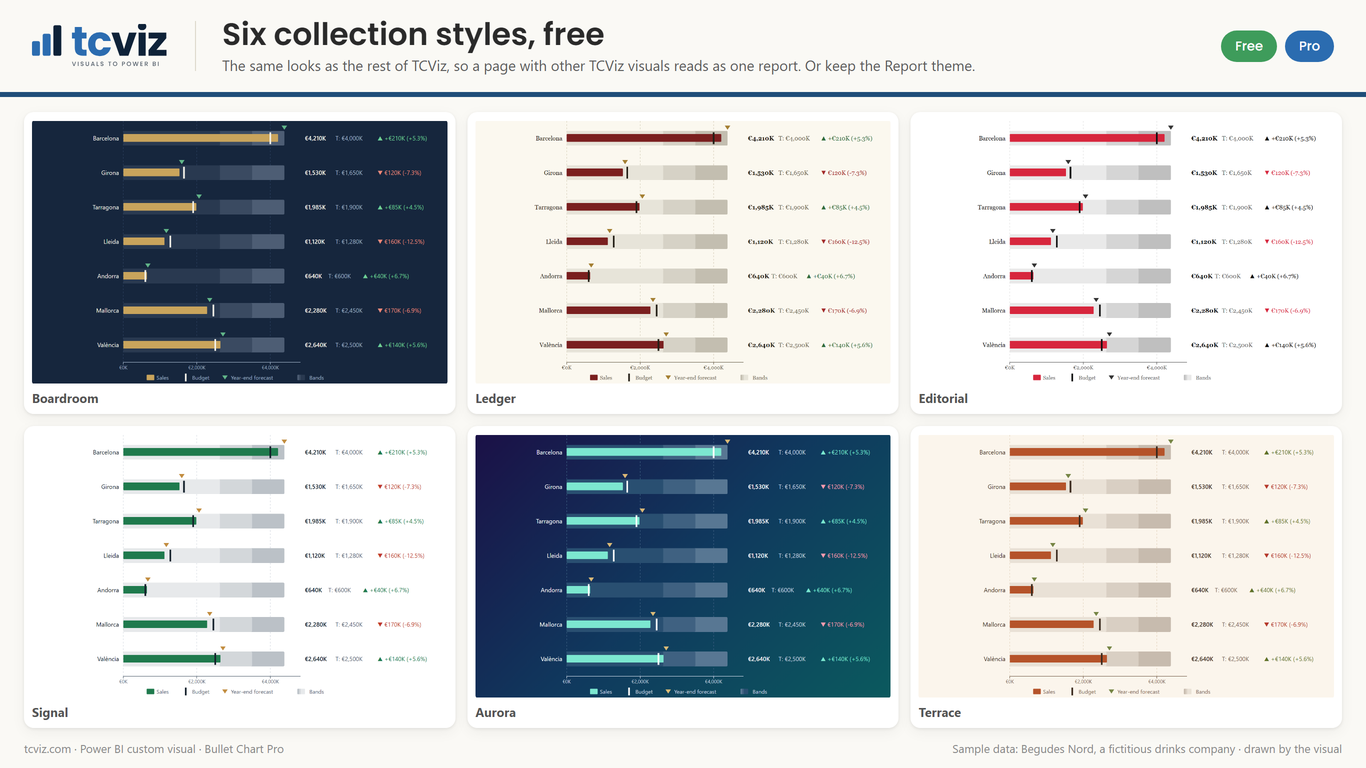
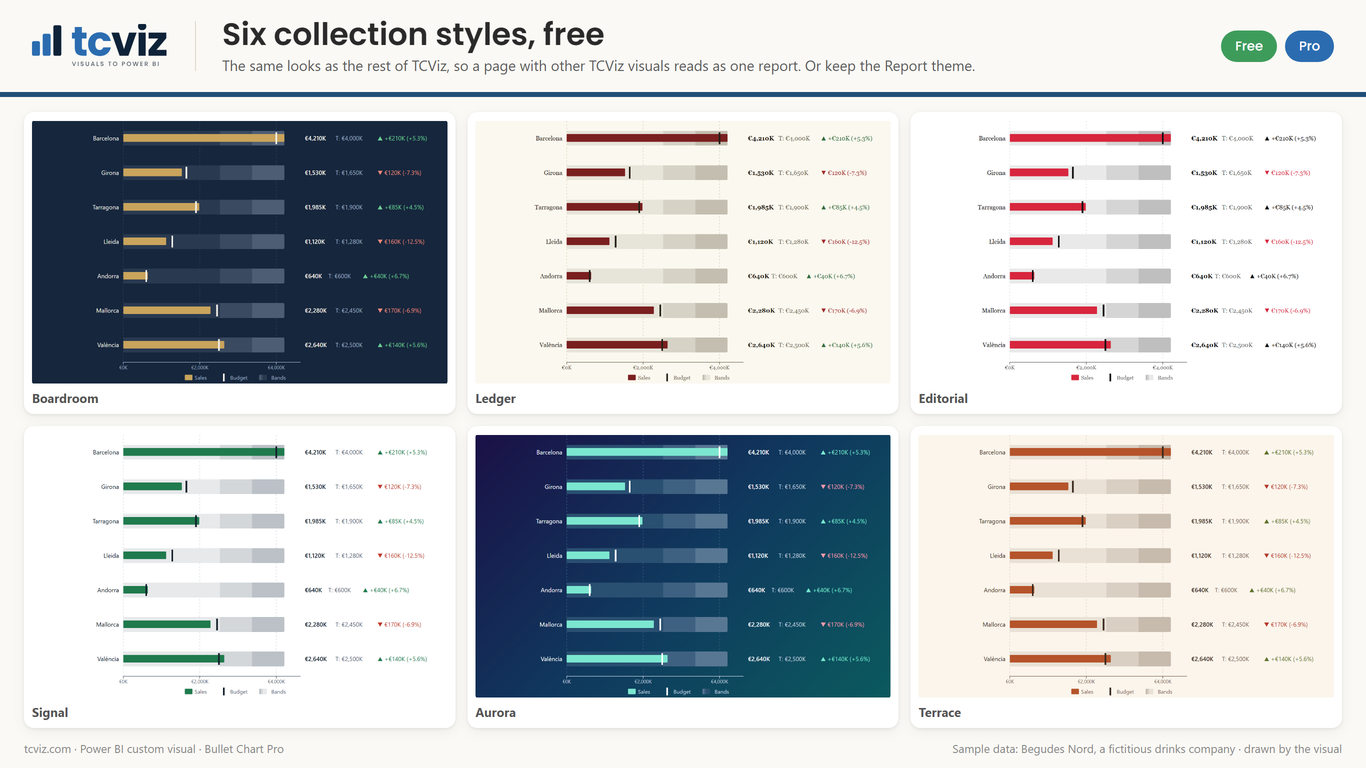
1.6: correcciones del auditor de documentación — fuera use-case.html (IBCS), captura de estilos sin la previsión Pro, orden real de lo que se oculta en mosaicos, símbolo de la previsión, privacidad con los enlaces de inicio

diff --git a/docs/support.html b/docs/support.html
@@ -137,7 +137,7 @@
       <tr><td>Small Multiples By <span class="badge">Pro</span></td><td>Grouping</td><td>One panel per value of this field (region, year…).</td></tr>
       <tr><td>Actual (Real)</td><td>Measure</td><td>The bar. Required: without it the start screen is shown.</td></tr>
       <tr><td>Target</td><td>Measure</td><td>Solid marker. Drives the variance label and its colour.</td></tr>
-      <tr><td>Forecast <span class="badge">Pro</span></td><td>Measure</td><td>Triangle marker for the expected end-of-period value.</td></tr>
+      <tr><td>Forecast <span class="badge">Pro</span></td><td>Measure</td><td>Marker for the expected end-of-period value: a triangle above the bar (a diamond in vertical orientation).</td></tr>
       <tr><td>Second target <span class="badge">Pro</span></td><td>Measure</td><td>Hollow marker next to the target: a stretch goal, last year or a commitment. Shown in the legend and in the tooltip with its own variance.</td></tr>
       <tr><td>Band 1 limit <span class="badge">Pro</span></td><td>Measure</td><td>Where band 1 (worst) ends, for this row.</td></tr>
       <tr><td>Band 2 limit <span class="badge">Pro</span></td><td>Measure</td><td>Where band 2 (mid) ends, for this row.</td></tr>
@@ -172,7 +172,7 @@
   <p>The guide appears over the chart only while you edit a report, once the visual has data, and
      not in tiles smaller than 360 × 220 px (there it would cover the whole chart).</p>
   <ol>
-    <li><strong>Your data</strong> — Category, Actual and Target, each with a tick once it is in its well. The list updates by itself as you drag fields.</li>
+    <li><strong>Your data</strong> — Category, Actual and Target; Target gets a tick once it is in its well. The list updates by itself as you drag fields.</li>
     <li><strong>Try Pro on your data</strong> — a <em>Try</em> button switches to vertical bars with one click. For bands from measures, the second target and small multiples, the guide tells you which well to use and ticks the item once it is filled. Without a licence they show under the watermark while you edit.</li>
     <li><strong>Pick a style</strong> — the seven collection styles, each with a thumbnail.</li>
   </ol>
@@ -476,8 +476,8 @@ Sales LY = CALCULATE ( [Sales], SAMEPERIODLASTYEAR ( 'Date'[Date] ) )</code></pr
   <details>
     <summary>Why is the variance not showing in a small tile?</summary>
     <p>When the values column is too narrow, the visual decides for the whole column what fits, in
-       this order: the variance amount is dropped first (the % stays), then the variance, then the
-       target value. Nothing is lost: <strong>hover over the bar and the tooltip shows the actual, the
+       this order: the target value is dropped first, then the variance amount (the % stays), then
+       the variance. Nothing is lost: <strong>hover over the bar and the tooltip shows the actual, the
        target and the variance in full</strong>. Widen the visual, reduce <em>Category column width %</em>,
        or set <em>Values panel width %</em>.</p>
   </details>
@@ -726,7 +726,7 @@ Band maximum = SUM ( T[Target] ) * 1.2</code></pre>
   </details>
 
   <details>
-    <summary>Does it work in Embedded, Publish to Web or Report Server?</summary>
+    <summary>Does it work in Embedded or Publish to Web?</summary>
     <p>The free features work everywhere. Where Power BI cannot check licences (Publish to Web,
        embedding, export) the free chart is drawn, without the Pro features and without a watermark.</p>
   </details>

diff --git a/docs/infographic.html b/docs/infographic.html
@@ -56,7 +56,7 @@ ol li:before{content:counter(n);position:absolute;left:0;top:0;width:19px;height
 <div class="card campos"><h2>Fields</h2><div class="rol"><span class="chip">Category</span><span class="d">Regions, products or teams: one bar each. Drilldown on hierarchies.</span></div><div class="rol"><span class="chip">Actual (Real)</span><span class="d">The measure you track; its dynamic format string row by row.</span></div><div class="rol"><span class="chip opc">Target</span><span class="d">Budget, plan or last year: the variance is calculated for you.</span></div><div class="rol"><span class="chip opc">More measures<i>PRO</i></span><span class="d">Second target, year-end forecast and band limits from your own measures.</span></div><div class="rol"><span class="chip opc">Small Multiples By<i>PRO</i></span><span class="d">One panel per channel, region or year.</span></div></div></div>
 <div class="der">
 <div class="card"><h2>Get started</h2><ol><li>Category and Actual: one bar per item, scaled to fit the visual.</li><li>Add Target: the marker, the variance and its % appear by themselves.</li><li>Sort by variance % and pick the Report theme or a collection style.</li><li>Pro: second target, forecast, bands from measures, small multiples.</li></ol></div>
-<div class="card flex1"><h2>Free and Pro</h2><div class="reparto"><div class="f"><h3>Free</h3><ul><li>Actual vs target, variance and % calculated for you</li><li>Three qualitative bands, two reference lines</li><li>Conditional formatting (fx) on bar and target</li><li>Sort by actual, target, variance or variance %</li><li>Report theme or 6 collection styles</li><li>Accessibility card: high contrast, focus, minimum text</li><li>Axis title, gridlines, row height and bar thickness</li></ul><div class="mas">+ 1 more, all free</div></div><div class="p"><h3>Pro adds</h3><ul><li>Second target (stretch goal or last year)</li><li>Year-end forecast marker</li><li>Bands from your own measures</li><li>Small multiples with the 9 common options</li><li>Vertical orientation</li></ul></div></div></div>
+<div class="card flex1"><h2>Free and Pro</h2><div class="reparto"><div class="f"><h3>Free</h3><ul><li>Actual vs target, variance and % calculated for you</li><li>Three qualitative bands, two reference lines</li><li>Conditional formatting (fx) on bar and target</li><li>Sort by actual, target, variance or variance %</li><li>Report theme or 6 collection styles</li><li>Accessibility card: high contrast, focus, minimum text</li><li>Axis title, gridlines, row height, 12 languages</li></ul></div><div class="p"><h3>Pro adds</h3><ul><li>Second target (stretch goal or last year)</li><li>Year-end forecast marker</li><li>Bands from your own measures</li><li>Small multiples with the 9 common options</li><li>Vertical orientation</li></ul></div></div></div>
 </div>
 <div class="fin"><span>tcviz.com · Power BI custom visual · Bullet Chart Pro</span><span>Documentation: tinocallarisa-web.github.io/bullet-chart-pro-tcviz/support.html</span></div>
 </body></html>

diff --git a/docs/terms.html b/docs/terms.html
@@ -31,7 +31,7 @@
     <tr><td>Cross-filtering / highlight support</td><td>✅</td><td>✅</td></tr>
     <tr><td>Conditional formatting (fx) on the bar and target colours</td><td>✅</td><td>✅</td></tr>
     <tr><td>Trellis / small multiples</td><td>❌</td><td>✅</td></tr>
-    <tr><td>Forecast marker (triangle)</td><td>❌</td><td>✅</td></tr>
+    <tr><td>Forecast marker</td><td>❌</td><td>✅</td></tr>
     <tr><td>Vertical orientation</td><td>❌</td><td>✅</td></tr>
     <tr><td>Second target</td><td>❌</td><td>✅</td></tr>
     <tr><td>Bands from measures</td><td>❌</td><td>✅</td></tr>

diff --git a/docs/privacy.html b/docs/privacy.html
@@ -24,7 +24,8 @@
 
   <h2>2. External requests</h2>
   <p>The visual makes <strong>no external network requests</strong>. It does not connect to
-     any server, analytics service, or third-party API.</p>
+     any server, analytics service, or third-party API. The links on the start screen (guide, product
+     page, video) open in your browser only when you click them, through Power BI.</p>
 
   <h2>3. License validation</h2>
   <p>Pro license validation is handled exclusively through the official Microsoft AppSource

diff --git a/tools/gen_infographic.py b/tools/gen_infographic.py
@@ -49,8 +49,7 @@ P["features"] = [{"name": n, "free": True} for n in (
     "Sort by actual, target, variance or variance %",
     "Report theme or 6 collection styles",
     "Accessibility card: high contrast, focus, minimum text",
-    "Axis title, gridlines, row height and bar thickness",
-    "Dynamic format strings, drilldown, bookmarks, 12 languages",
+    "Axis title, gridlines, row height, 12 languages",
 )]
 P["freemium"] = {"free": "", "pro": ["Second target (stretch goal or last year)", "Year-end forecast marker", "Bands from your own measures",
                                      "Small multiples with the 9 common options", "Vertical orientation"]}

diff --git a/tools/simulador/harness.py b/tools/simulador/harness.py
@@ -137,7 +137,7 @@ async def ficha(b):
     for k, (w, h) in {"l": (900, 520), "m": (520, 330), "s": (300, 170)}.items():
         await shot("61_size_" + k, dv(base), w, h)
     for k in ("boardroom", "ledger", "editorial", "signal", "aurora", "terrace"):
-        await shot("62_style_" + k, dv({"style": {"template": k}, "labels": {"showTargetValue": True}}, forecast=True), 760, 480)
+        await shot("62_style_" + k, dv({"style": {"template": k}, "labels": {"showTargetValue": True}}), 760, 480)   # sin previsión: es Pro y los estilos son gratis
 
 
 async def main():

diff --git a/TIPS-AND-HINTS.md b/TIPS-AND-HINTS.md
@@ -27,7 +27,7 @@
 | Category | Grouping | One bullet per value. Supports hierarchies and drilldown. |
 | Actual (Real) | Measure | The bar. Respects the measure's format string. |
 | Target | Measure | Vertical marker; drives the variance label and colour. |
-| Forecast [Pro] | Measure | Triangle marker for the expected end-of-period value. |
+| Forecast [Pro] | Measure | Marker for the expected end-of-period value (triangle; diamond in vertical). |
 | Small Multiples By [Pro] | Grouping | One panel per value of this field. |
 | Second target [Pro] | Measure | Hollow marker; legend and tooltip with its own variance. |
 | Band 1 limit / Band 2 limit / Band maximum [Pro] | Measure | Per-row band thresholds from DAX. Band 3 runs to the data maximum if *Band maximum* is empty. |
@@ -108,7 +108,7 @@
 - **Band measures do nothing** — they are Pro; without a licence the bands stay as percentages (with a watermarked preview while editing).
 - **The values on the right disappeared** — the visual is too narrow. The bar always keeps at least 40% of the width, so the values column hides first. Widen the visual or reduce *Category column width %*.
 - **Small Multiples By does nothing** — Small Multiples is a Pro feature; without a licence Power BI shows its notice. With a licence, check *Enable small multiples* is on.
-- **No forecast triangle** — Forecast is Pro. With a licence, check the Forecast field is not blank for that category.
+- **No forecast marker** — Forecast is Pro. With a licence, check the Forecast field is not blank for that category.
 - **Vertical orientation shows horizontal bars** — vertical is Pro.
 - **Second target not drawn** — it is Pro; with a licence, check the measure is not blank for that row.
 - **Only part of the categories** — the visual receives up to 2,000 categories. Filter or aggregate larger lists.
